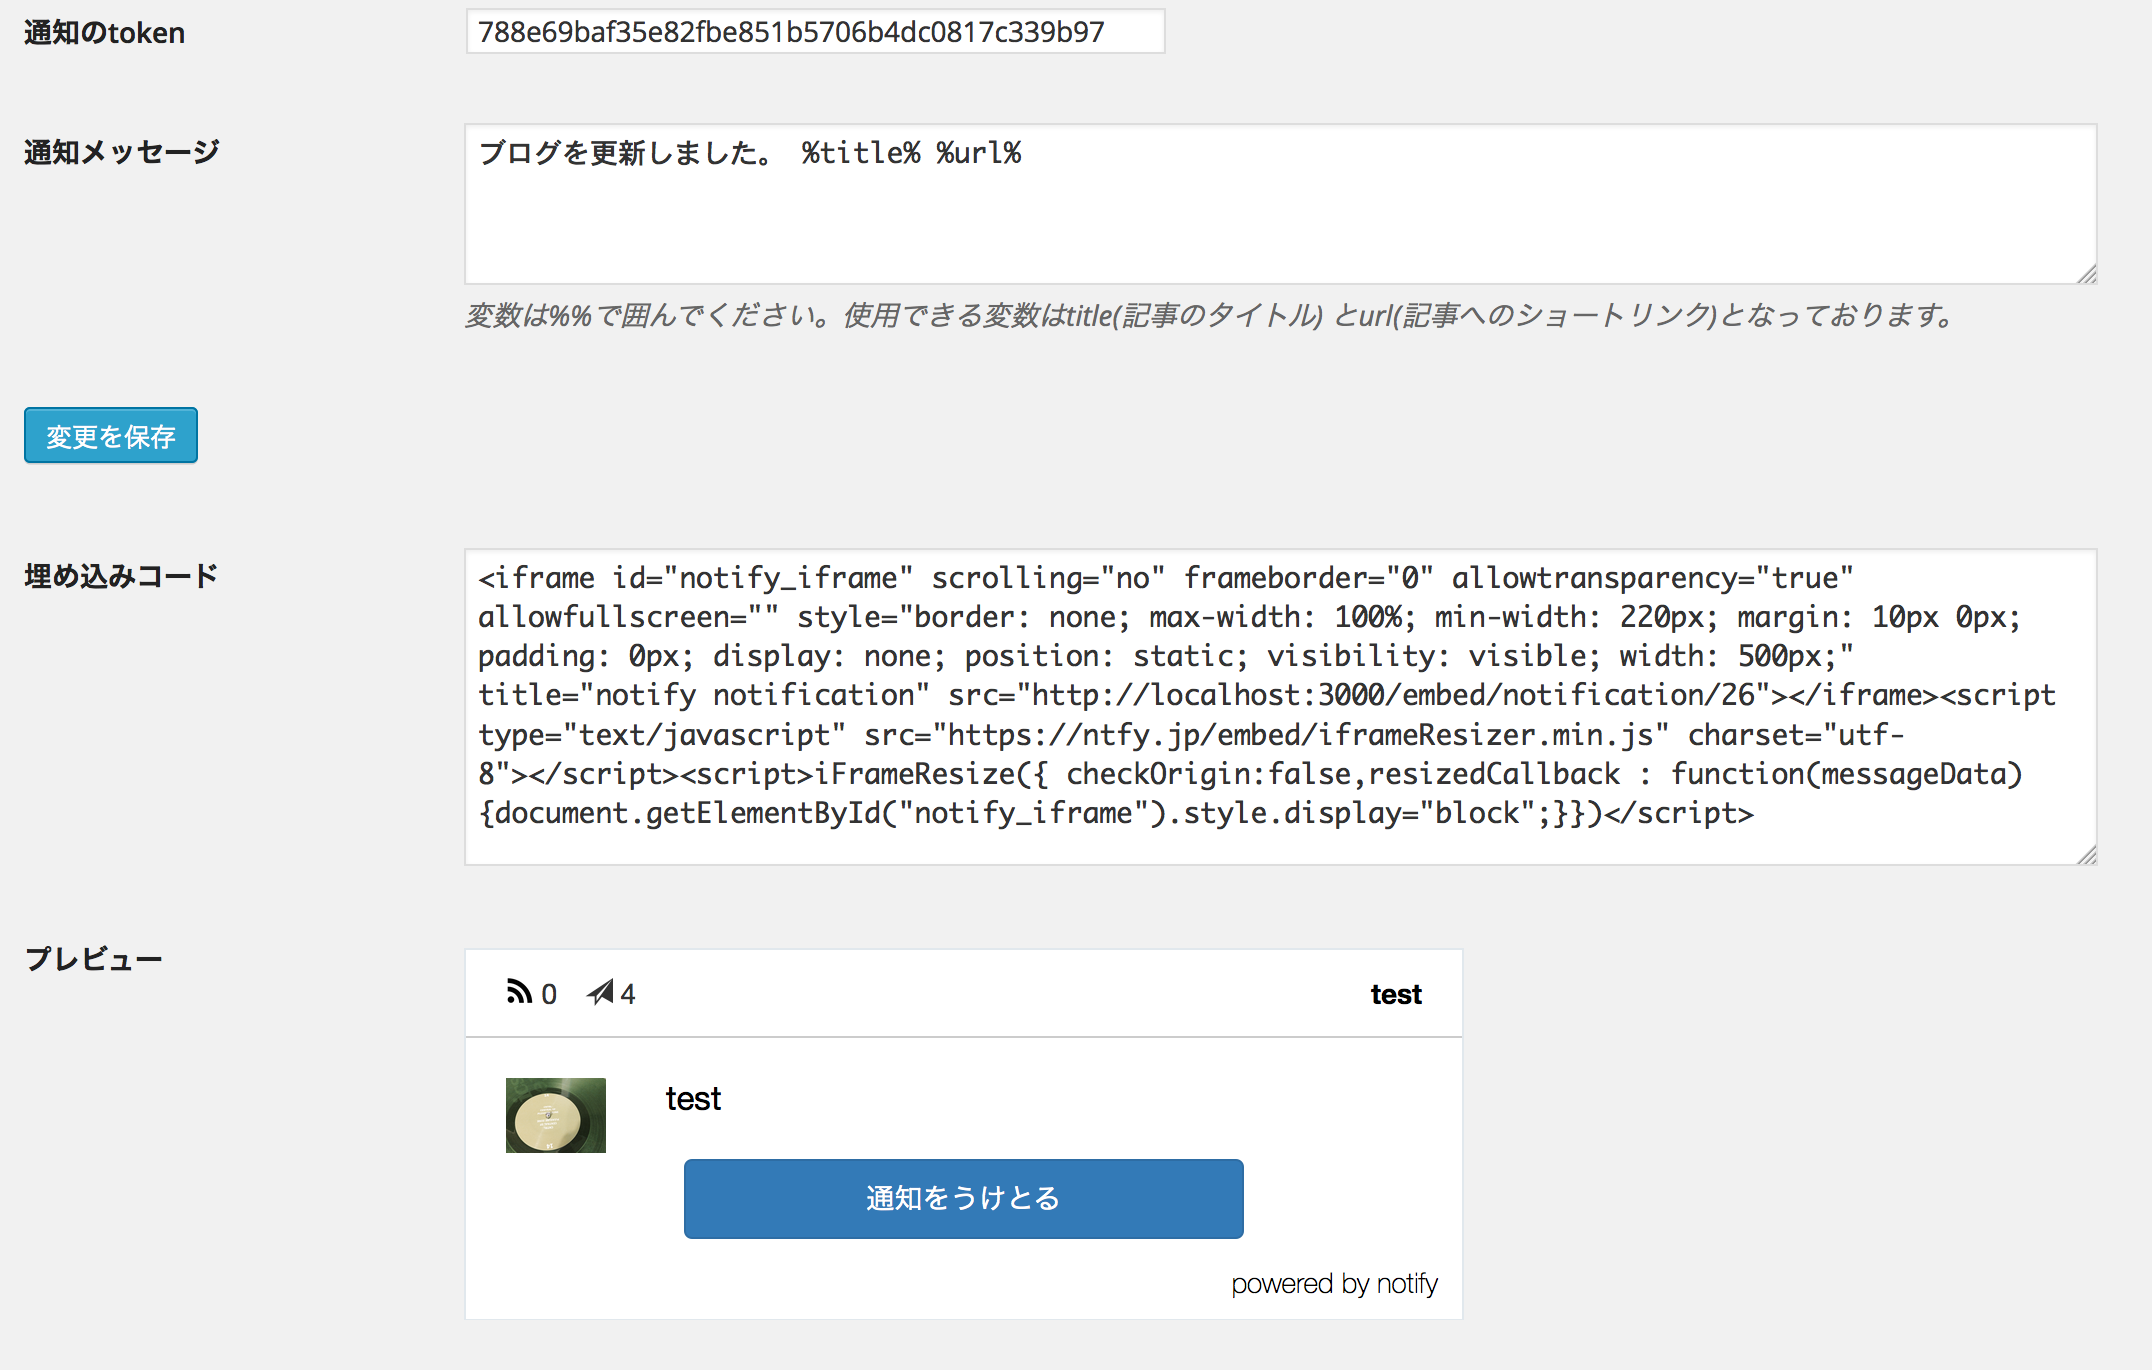
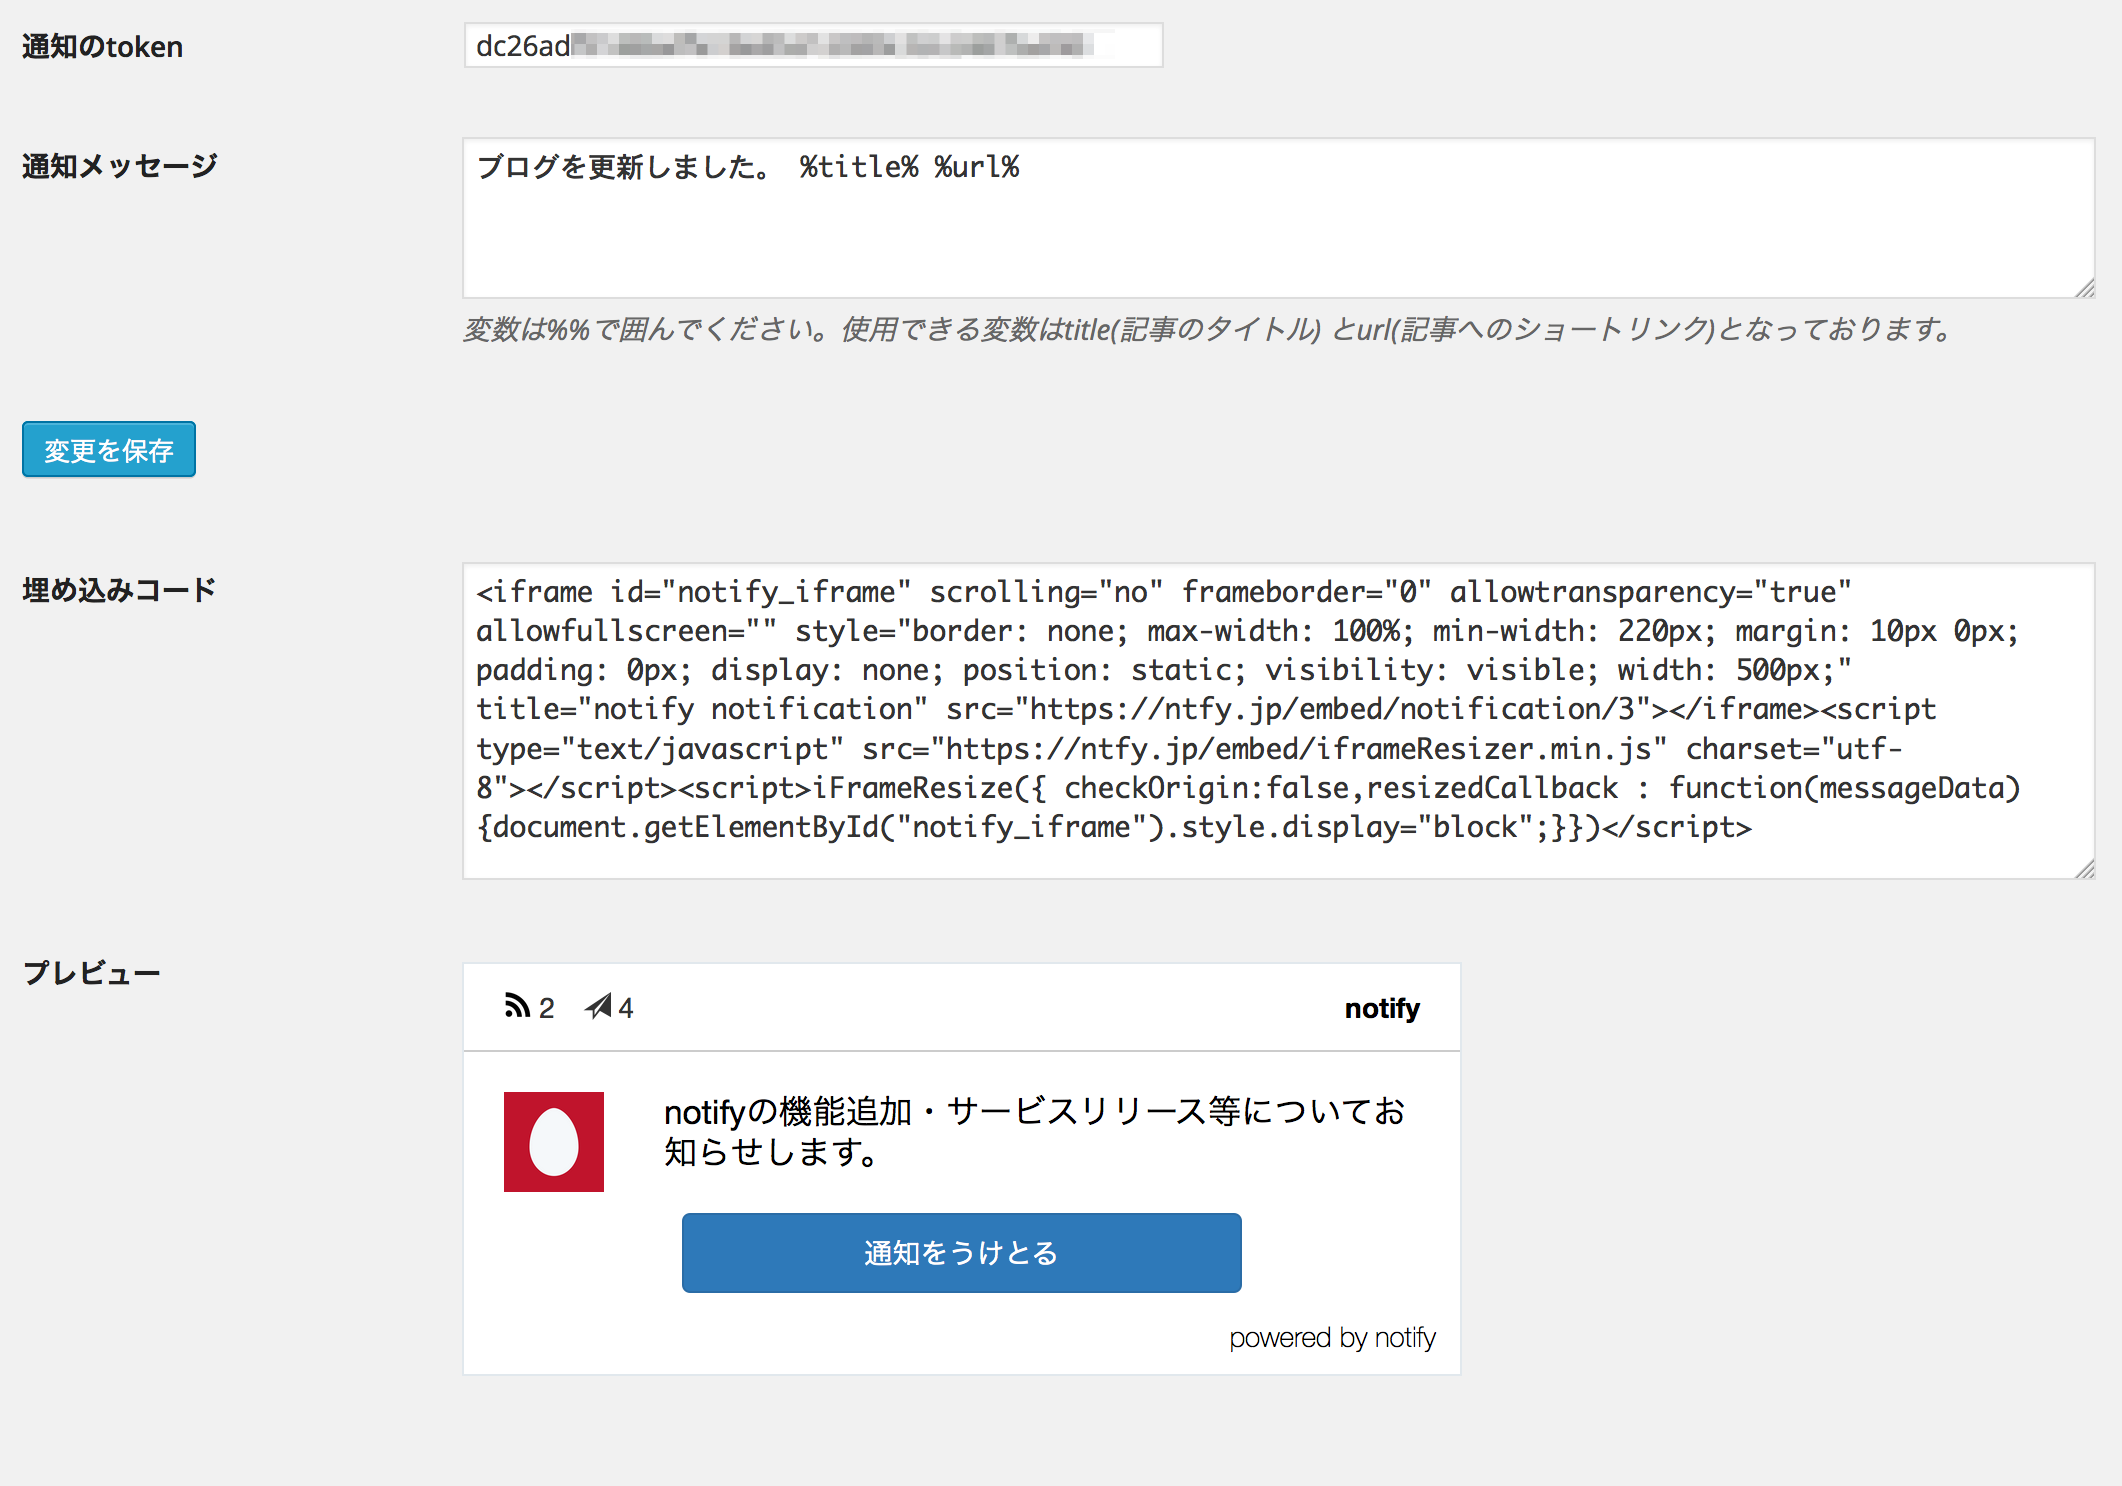
img

diff --git a/inc/api.class.php b/inc/api.class.php
@@ -1,8 +1,8 @@
 <?php
 
 class Notify_API {
-	private $api_url = "https://ntfy.jp/api/";
-// 	private $api_url = "http://localhost:3000/api/";
+//	private $api_url = "https://ntfy.jp/api/";
+ 	private $api_url = "http://localhost:3000/api/";
 	private $api_version = "v1";
 	public $notification_token;
 
